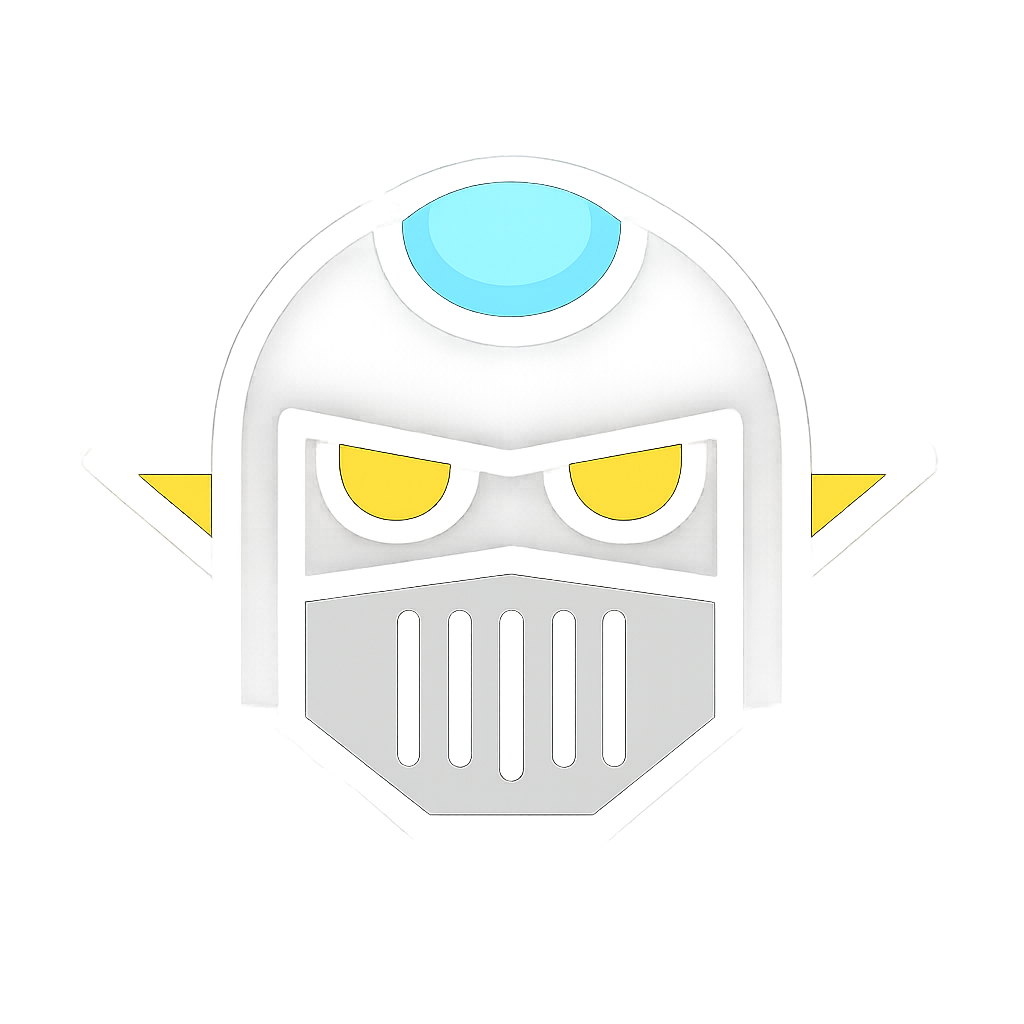
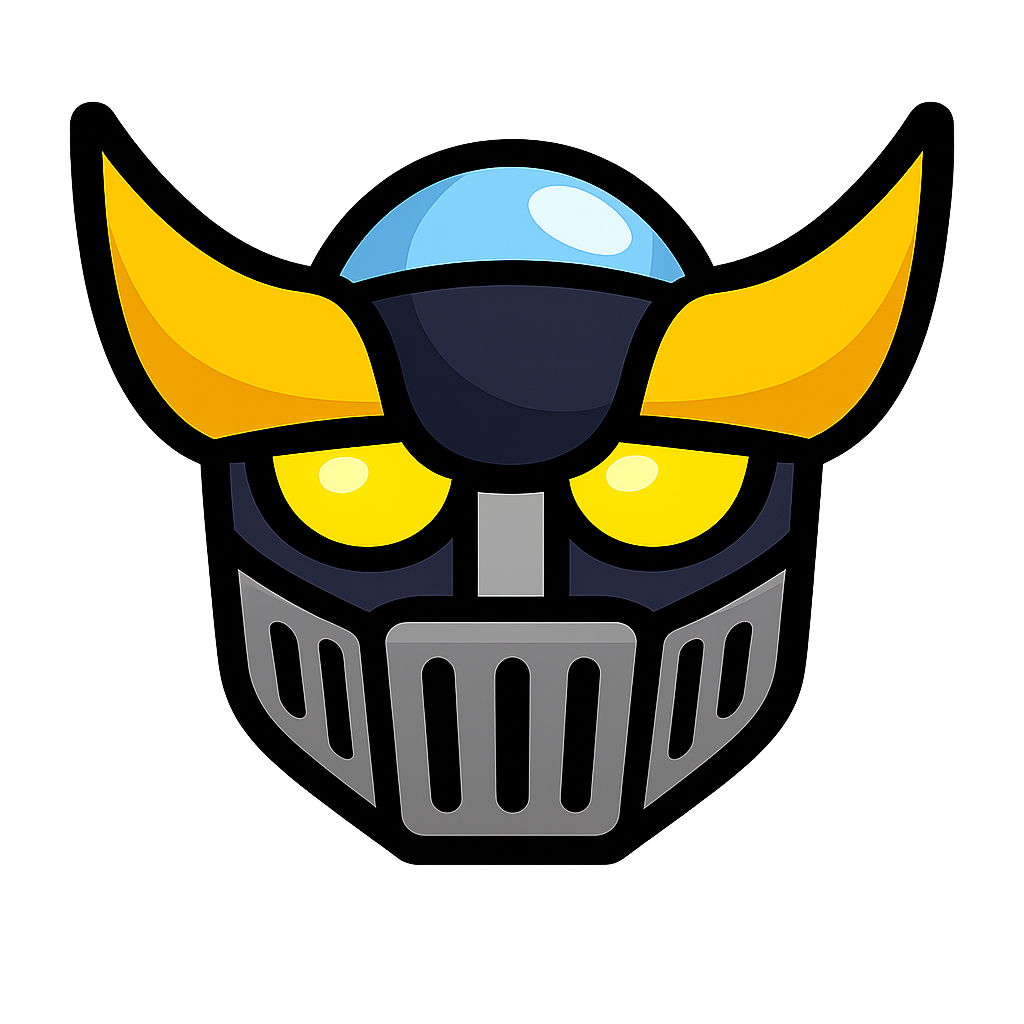
Restore Mazinger Z with yellow ear fins
Claude-Session: https://claude.ai/code/session_019QwctBLnb4UTXMJBnbargq

diff --git a/index.html b/index.html
@@ -2078,7 +2078,7 @@ const faceHTML = (e, who = 'suit') => FACE_ART[who][e] || FACE_ART.suit[e] || e;
 // 같은 그림이 여러 개 있어도 박자가 겹치지 않게 시작점을 흩뜨림
 // 그림을 다시 그려도 폰에 남은 옛 그림이 보이지 않게 주소에 버전을 붙임
 // 파일마다 내용이 바뀔 때만 새로 받도록 파일 해시를 붙임 (빌드할 때 채움)
-const ART_HASH = {"tile-gundam-a.png": "41a00219", "ind-school-a.png": "1b0fc977", "robot-cobot-cook-b.png": "3f739fa6", "tile-tool-a.png": "f174149f", "tile-made-a.png": "d557ba97", "ind-training-b.png": "0efc1d0b", "robot-qarm-a.png": "901f7afc", "tile-legs-b.png": "c0299b41", "tile-union-b.png": "b3a03a42", "tile-mgodz-b.png": "64821f9c", "robot-indus-b.png": "4a7cabef", "face-cook-frown.png": "e01a4907", "face-cook-neutral.png": "71441525", "ind-battery-b.png": "6e2bd18d", "ind-fire-a.png": "a71484d3", "face-trump-neutral.png": "5aecac90", "tile-legs-a.png": "2faadad6", "face-worker-angry.png": "eb6b88ed", "ind-steel-a.png": "0f070238", "face-suitf-delight.png": "d729900f", "tile-iarm-a.png": "fc127d92", "ind-steel-b.png": "e122612f", "ind-defense-b.png": "5aa959f1", "face-cook-angry.png": "50c65318", "ind-port-b.png": "6f5dc395", "tile-tf-a.png": "d2bc0939", "ind-factory-a.png": "909659fd", "tile-grendizer-b.png": "c84e6170", "tile-term-b.png": "fa8e5b3f", "face-neutral.png": "a9a959b5", "tile-wheel-a.png": "9e98ebac", "face-cook-smile.png": "be9219e0", "robot-indus-a.png": "ba4c70bc", "tile-korea-b.png": "ebe1008b", "face-trump-tear.png": "21d22245", "tile-auto-b.png": "bb58686e", "ind-material-b.png": "a8f27197", "tile-korea-a.png": "d1987f19", "tile-union-a.png": "d48507d4", "ind-auto-a.png": "9a8abf4f", "tile-taekwonv-b.png": "0c7df26c", "face-frown.png": "26865767", "robot-centaur-a.png": "a9e1e03b", "tile-auto-a.png": "e7100d25", "robot-cobot-cook-a.png": "2acb022c", "face-worker-tear.png": "940dcfc3", "ind-autoparts-b.png": "a5dbd76a", "face-suitf-angry.png": "5b24ceb5", "tile-iarm-b.png": "f0647318", "face-suitf-tear.png": "d0923069", "robot-centaur-b.png": "848f1932", "robot-mm-a.png": "e5da97cf", "ind-defense-a.png": "23a0651c", "robot-quad-a.png": "1e1384cf", "ind-autoparts-a.png": "26dcf7ce", "tile-eva-b.png": "b64d5546", "face-cook-tear.png": "d529800c", "tile-gundam-b.png": "69722c17", "face-trump-delight.png": "e41c1f7d", "face-angry.png": "8542c3c5", "tile-floor-b.png": "7bfb4d09", "face-suitf-smile.png": "2bfa949d", "ind-material-a.png": "2c67685e", "tile-mazinger-a.png": "698fedaa", "tile-term-a.png": "f86a988f", "tile-eva-a.png": "48055f29", "tile-hum-a.png": "cdc85433", "ind-port-a.png": "0e5340b9", "ind-police-a.png": "717025fa", "wheel-tilt-ref.png": "4a1e31a2", "robot-cobot-a.png": "bb066d5e", "tile-mazinger-b.png": "dda3f976", "face-trump-angry.png": "6fc0cf6d", "tile-wheel-b.png": "df5d2104", "indus-ref.png": "2bfe4680", "face-worker-neutral.png": "f4f1ff96", "robot-amr-a.png": "21455470", "face-delight.png": "4b63238d", "face-trump-frown.png": "4102f723", "robot-mm-b.png": "41cc89c7", "ind-fire-b.png": "c530534e", "ind-police-b.png": "750b1169", "ind-ess-b.png": "c7fac005", "ind-training-a.png": "a9fe00e5", "tile-mgodz-a.png": "36243d52", "tile-tf-b.png": "23f3efda", "ind-aircraft-a.png": "53a6b218", "ind-school-b.png": "a14af652", "tile-arm-b.png": "6cb9dab3", "tile-taekwonv-a.png": "0c7df26c", "face-worker-delight.png": "56fdb189", "face-worker-smile.png": "7eaefd7c", "robot-quad-b.png": "9b27fe7b", "ind-chicken-a.png": "bd4bc4e3", "face-cook-delight.png": "5ceb20b0", "ind-battery-a.png": "2ead7359", "robot-agv-b.png": "397f8942", "face-tear.png": "7cacead6", "face-suitf-neutral.png": "b29259fe", "ind-auto-b.png": "f90715bb", "ind-shipyard-a.png": "7c43481e", "tile-grendizer-a.png": "d248d9c5", "tile-tool-b.png": "c8c8a23a", "ind-factory-b.png": "b9dfaab4", "ind-chicken-b.png": "b4930a6b", "ind-shipyard-b.png": "098fdbae", "robot-qarm-b.png": "abd9a737", "tile-arm-a.png": "cd420a51", "tile-made-b.png": "7077aabd", "tile-floor-a.png": "14074a30", "robot-cobot-weld-a.png": "da53987b", "robot-agv-a.png": "ee67b65c", "ind-logistics-b.png": "9c5aeeca", "face-smile.png": "786eeb95", "face-worker-frown.png": "0f8d8086", "robot-cobot-weld-b.png": "a9e69108", "robot-amr-b.png": "09f47fab", "tile-hum-b.png": "01ca7c8b", "ind-ess-a.png": "83fff111", "face-suitf-frown.png": "1236f440", "ind-aircraft-b.png": "6afa5f2a", "face-trump-smile.png": "03674df8", "robot-cobot-b.png": "7ea58bc1", "ind-logistics-a.png": "b1b04f38"};
+const ART_HASH = {"tile-gundam-a.png": "41a00219", "ind-school-a.png": "1b0fc977", "robot-cobot-cook-b.png": "3f739fa6", "tile-tool-a.png": "f174149f", "tile-made-a.png": "d557ba97", "ind-training-b.png": "0efc1d0b", "robot-qarm-a.png": "901f7afc", "tile-legs-b.png": "c0299b41", "tile-union-b.png": "b3a03a42", "tile-mgodz-b.png": "64821f9c", "robot-indus-b.png": "4a7cabef", "face-cook-frown.png": "e01a4907", "face-cook-neutral.png": "71441525", "ind-battery-b.png": "6e2bd18d", "ind-fire-a.png": "a71484d3", "face-trump-neutral.png": "5aecac90", "tile-legs-a.png": "2faadad6", "face-worker-angry.png": "eb6b88ed", "ind-steel-a.png": "0f070238", "face-suitf-delight.png": "d729900f", "tile-iarm-a.png": "fc127d92", "ind-steel-b.png": "e122612f", "ind-defense-b.png": "5aa959f1", "face-cook-angry.png": "50c65318", "ind-port-b.png": "6f5dc395", "tile-tf-a.png": "d2bc0939", "ind-factory-a.png": "909659fd", "tile-grendizer-b.png": "c84e6170", "tile-term-b.png": "fa8e5b3f", "face-neutral.png": "a9a959b5", "tile-wheel-a.png": "9e98ebac", "face-cook-smile.png": "be9219e0", "robot-indus-a.png": "ba4c70bc", "tile-korea-b.png": "ebe1008b", "face-trump-tear.png": "21d22245", "tile-auto-b.png": "bb58686e", "ind-material-b.png": "a8f27197", "tile-korea-a.png": "d1987f19", "tile-union-a.png": "d48507d4", "ind-auto-a.png": "9a8abf4f", "tile-taekwonv-b.png": "0c7df26c", "face-frown.png": "26865767", "robot-centaur-a.png": "a9e1e03b", "tile-auto-a.png": "e7100d25", "robot-cobot-cook-a.png": "2acb022c", "face-worker-tear.png": "940dcfc3", "ind-autoparts-b.png": "a5dbd76a", "face-suitf-angry.png": "5b24ceb5", "tile-iarm-b.png": "f0647318", "face-suitf-tear.png": "d0923069", "robot-centaur-b.png": "848f1932", "robot-mm-a.png": "e5da97cf", "ind-defense-a.png": "23a0651c", "robot-quad-a.png": "1e1384cf", "ind-autoparts-a.png": "26dcf7ce", "tile-eva-b.png": "b64d5546", "face-cook-tear.png": "d529800c", "tile-gundam-b.png": "69722c17", "face-trump-delight.png": "e41c1f7d", "face-angry.png": "8542c3c5", "tile-floor-b.png": "7bfb4d09", "face-suitf-smile.png": "2bfa949d", "ind-material-a.png": "2c67685e", "tile-mazinger-a.png": "2357f3bd", "tile-term-a.png": "f86a988f", "tile-eva-a.png": "48055f29", "tile-hum-a.png": "cdc85433", "ind-port-a.png": "0e5340b9", "ind-police-a.png": "717025fa", "wheel-tilt-ref.png": "4a1e31a2", "robot-cobot-a.png": "bb066d5e", "tile-mazinger-b.png": "ec1567b3", "face-trump-angry.png": "6fc0cf6d", "tile-wheel-b.png": "df5d2104", "indus-ref.png": "2bfe4680", "face-worker-neutral.png": "f4f1ff96", "robot-amr-a.png": "21455470", "face-delight.png": "4b63238d", "face-trump-frown.png": "4102f723", "robot-mm-b.png": "41cc89c7", "ind-fire-b.png": "c530534e", "ind-police-b.png": "750b1169", "ind-ess-b.png": "c7fac005", "ind-training-a.png": "a9fe00e5", "tile-mgodz-a.png": "36243d52", "tile-tf-b.png": "23f3efda", "ind-aircraft-a.png": "53a6b218", "ind-school-b.png": "a14af652", "tile-arm-b.png": "6cb9dab3", "tile-taekwonv-a.png": "0c7df26c", "face-worker-delight.png": "56fdb189", "face-worker-smile.png": "7eaefd7c", "robot-quad-b.png": "9b27fe7b", "ind-chicken-a.png": "bd4bc4e3", "face-cook-delight.png": "5ceb20b0", "ind-battery-a.png": "2ead7359", "robot-agv-b.png": "397f8942", "face-tear.png": "7cacead6", "face-suitf-neutral.png": "b29259fe", "ind-auto-b.png": "f90715bb", "ind-shipyard-a.png": "7c43481e", "tile-grendizer-a.png": "d248d9c5", "tile-tool-b.png": "c8c8a23a", "ind-factory-b.png": "b9dfaab4", "ind-chicken-b.png": "b4930a6b", "ind-shipyard-b.png": "098fdbae", "robot-qarm-b.png": "abd9a737", "tile-arm-a.png": "cd420a51", "tile-made-b.png": "7077aabd", "tile-floor-a.png": "14074a30", "robot-cobot-weld-a.png": "da53987b", "robot-agv-a.png": "ee67b65c", "ind-logistics-b.png": "9c5aeeca", "face-smile.png": "786eeb95", "face-worker-frown.png": "0f8d8086", "robot-cobot-weld-b.png": "a9e69108", "robot-amr-b.png": "09f47fab", "tile-hum-b.png": "01ca7c8b", "ind-ess-a.png": "83fff111", "face-suitf-frown.png": "1236f440", "ind-aircraft-b.png": "6afa5f2a", "face-trump-smile.png": "03674df8", "robot-cobot-b.png": "7ea58bc1", "ind-logistics-a.png": "b1b04f38"};
 // 게임에서는 가벼운 webp(assets/w/)를 씀. 파일 이름은 png와 같고 확장자만 다름
 const av = f => { const n = f.replace('assets/', ''); return `assets/w/${n.replace(/\.png$/, '.webp')}?v=${ART_HASH[n] || '0'}`; };
 // 업종 아이콘(ind-)은 a프레임만, 로봇·부품은 a·b를 번갈아 (팔이 까딱, 다리가 제자리걸음 등)
@@ -2453,7 +2453,7 @@ function banner(text, delay) {
 }
 
 // ───────── 진행 ─────────
-const BUILD_V = '1003-223742';
+const BUILD_V = '1003-223907';
 function loop(t) {
   const dt = Math.min(0.1, (t - (S.last || t)) / 1000);
   S.last = t;
